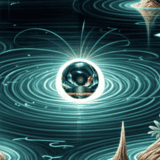
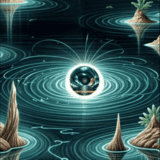
Pictures with gifs

diff --git a/index.html b/index.html
@@ -70,8 +70,13 @@
                 <p class="tm-list-item-description">Nonsense developments that you do just because you can do them, but mostly you do them because it's fun.</p>
               </div>
               <div class="tm-list">
-                <div class="tm-list-item">          
-                  <a href="https://tallest-man.xn--ldaa.com"><img src="img/pointless-1.png" alt="Image" class="tm-list-item-img"></a>
+                <div class="tm-list-item">
+                  <a href="https://tallest-man.xn--ldaa.com">
+                    <div class="tm-image-container">
+                      <img src="img/pointless-1.png" alt="Image" class="tm-static-image">
+                      <img src="img/pointless-1.gif" alt="GIF" class="tm-animated-image">
+                    </div>
+                  </a>
                   <div class="tm-black-bg tm-list-item-text">
                     <h3 class="tm-list-item-name">Tallest man in the world<span class="tm-list-item-price"><a href="https://github.com/jbdt/tallest-man" target="_blank"><i class="fab fa-github"></a></i></span></h3>
                     <p class="tm-list-item-description">This gentleman is really tall, no one knows exactly how tall. I invite you to check it out.</p>
@@ -80,7 +85,12 @@
               </div>
               <div class="tm-list">
                 <div class="tm-list-item">          
-                  <a href="https://infinity-zoom.xn--ldaa.com/"><img src="img/pointless-2.png" alt="Image" class="tm-list-item-img"></a>
+                  <a href="https://infinity-man.xn--ldaa.com">
+                    <div class="tm-image-container">
+                      <img src="img/pointless-2.png" alt="Image" class="tm-static-image">
+                      <img src="img/pointless-2.gif" alt="GIF" class="tm-animated-image">
+                    </div>
+                  </a>
                   <div class="tm-black-bg tm-list-item-text">
                     <h3 class="tm-list-item-name">Infinity zoom<span class="tm-list-item-price"><a href="https://github.com/jbdt/infinity-zoom" target="_blank"><i class="fab fa-github"></a></i></span></h3>
                     <p class="tm-list-item-description">Demonstration of a zoom loop made only with css and js. Maybe someday I'll make it super long.</p>

diff --git a/css/style.css b/css/style.css
@@ -155,14 +155,35 @@ h2 { margin-top: 0; }
     margin-top: 20px;
 }
 
-.tm-list-item-2 { align-items: flex-start; }
-
-.tm-list-item-img {
+.tm-image-container {
+    position: relative;
+    width: 160px;
+    height: 160px;
     margin-right: 20px;
+}
+
+.tm-static-image, .tm-animated-image {
+    position: absolute;
+    top: 0;
+    left: 0;
     width: 160px;
     height: 160px;
     background-color: #450bb7;
 }
+
+.tm-animated-image {
+    opacity: 0;
+}
+
+.tm-image-container:hover .tm-animated-image {
+    opacity: 1;
+}
+
+.tm-image-container:hover .tm-static-image {
+    opacity: 0;
+}
+
+.tm-list-item-2 { align-items: flex-start; }
 
 .tm-list-item-img-big {
     margin-right: 25px;
